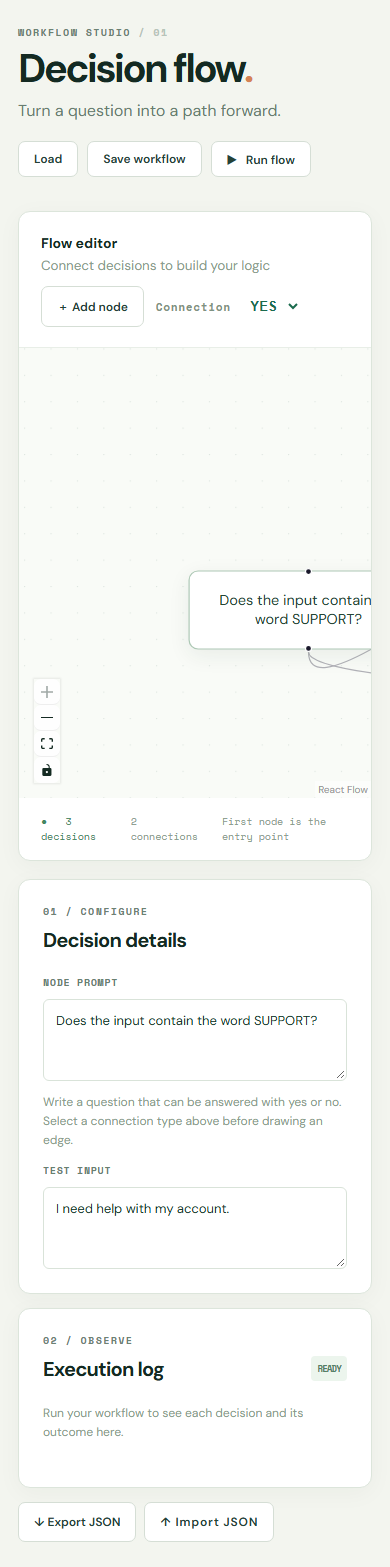
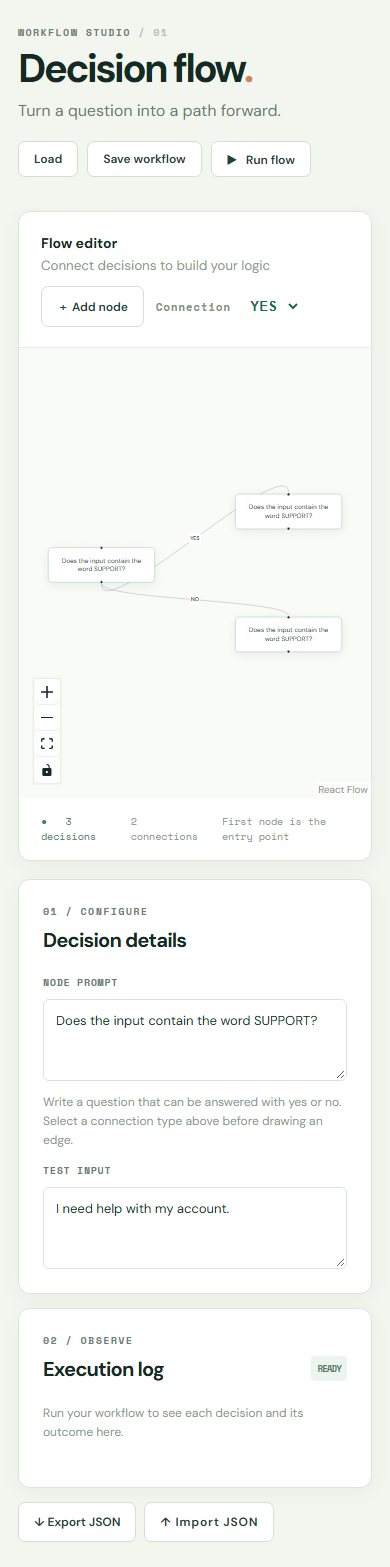
Refit workflow canvas when the viewport changes

diff --git a/src/main.jsx b/src/main.jsx
@@ -14,6 +14,7 @@ function App(){
   const [nodes,setNodes,onNodesChange]=useNodesState(draft()?.nodes||initial),[edges,setEdges,onEdgesChange]=useEdgesState(draft()?.edges||firstEdges);
   const [selected,setSelected]=useState('start'),[branch,setBranch]=useState('YES'),[input,setInput]=useState('I need help with my account.'),[run,setRun]=useState(null),[message,setMessage]=useState('');
   const [flow,setFlow]=useState(null);
+  useEffect(()=>{const resize=()=>setTimeout(()=>flow?.fitView({padding:.2}),120);window.addEventListener('resize',resize);return()=>window.removeEventListener('resize',resize)},[flow]);
   const selectedNode=nodes.find(n=>n.id===selected);
   useEffect(()=>{localStorage.setItem('decision-flow-draft',JSON.stringify({nodes,edges}))},[nodes,edges]);
   const connect=useCallback(params=>{if(edges.some(e=>e.source===params.source&&e.label===branch)){setMessage('This decision already has a '+branch+' connection. Delete it before reconnecting.');return}setEdges(es=>addEdge({...params,label:branch,animated:true},es))},[branch,edges,setEdges]);

diff --git a/BUILDLOG.md b/BUILDLOG.md
@@ -11,3 +11,5 @@ Phase 2 gate: standalone Python Playwright (10-second action timeouts) added a n
 Phase 3 gate: npm test passes 6 cases including exact YES/NO branch traversal, named steps, invalid model output and cycles. Real Inngest dev server at8389 executed two separate runs through OpenAI SDK to Ollama gemma3:1b: SUPPORT input followed YES->yes; SALES input followed NO->no. Evidence phase3-verification.json. Initial arithmetic smoke test returned NO for even 2: a model-quality failure, not hidden; changed to the intended input-routing use case and kept strict output validation. CLI background launch was policy-rejected, direct foreground binary worked and auto-selected conflict-free executor ports. API accepts202, invalidgraph400, missingrun404.
 
 Phase 4 gate: restored polished workflow studio incrementally after the working engine; added validated import/export, separate saved snapshot and automatic draft persistence, duplicate-outcome prevention, execution state/logs, active-node/traversed-edge styling and clear errors. Standalone actual browser verified import/export (downloaded verified-workflow.json), rejected empty import, save/edit/load restoration, real Run flow -> two ordered YES results, draft persistence after reload. Desktop and mobile screenshots visually reviewed; fit-on-import improved after initial preview showed clipped nodes. npm test: 6 passed; npm run build: passed (upstream Radix use-client bundling warnings). README contains complete setup, requirement matrix and model/state limitations.
+
+Follow-up visual fix: mobile viewport resize could leave nodes outside the current camera. Added automatic refit on window resize; reran actual browser import/export/save/load/live-run/persistence flow and regenerated desktop/mobile screenshots. Six tests and production build pass.
